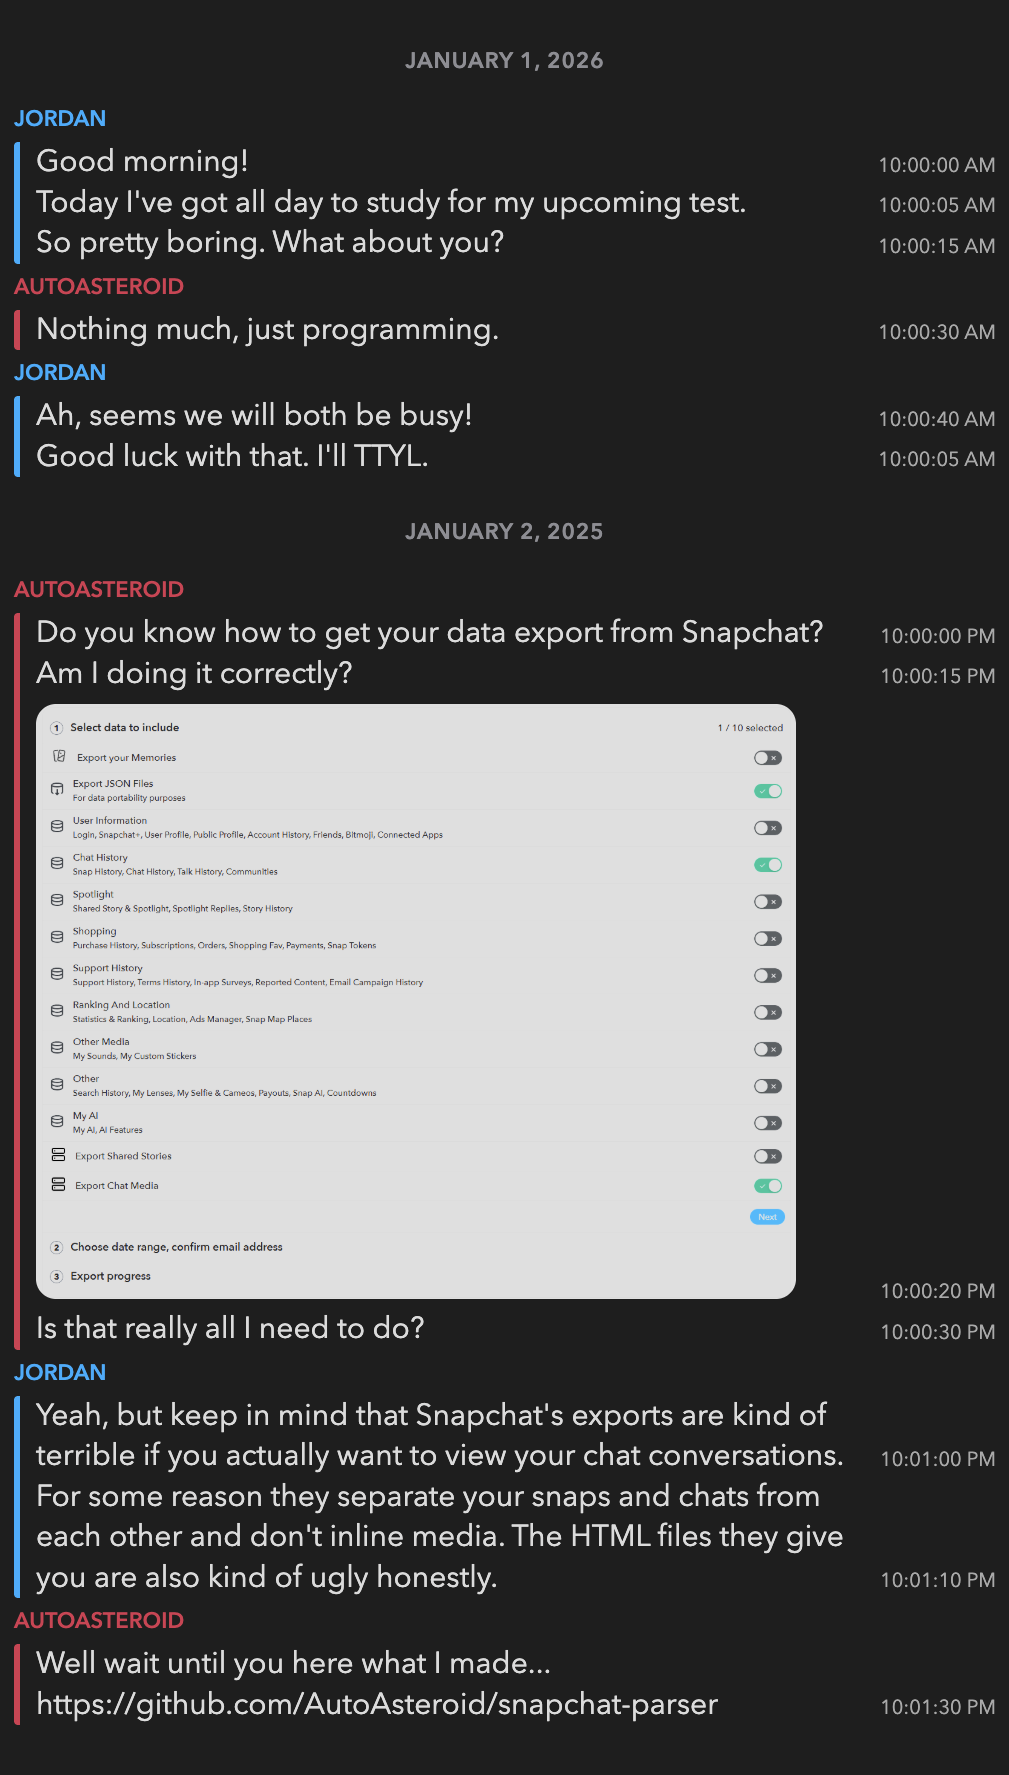
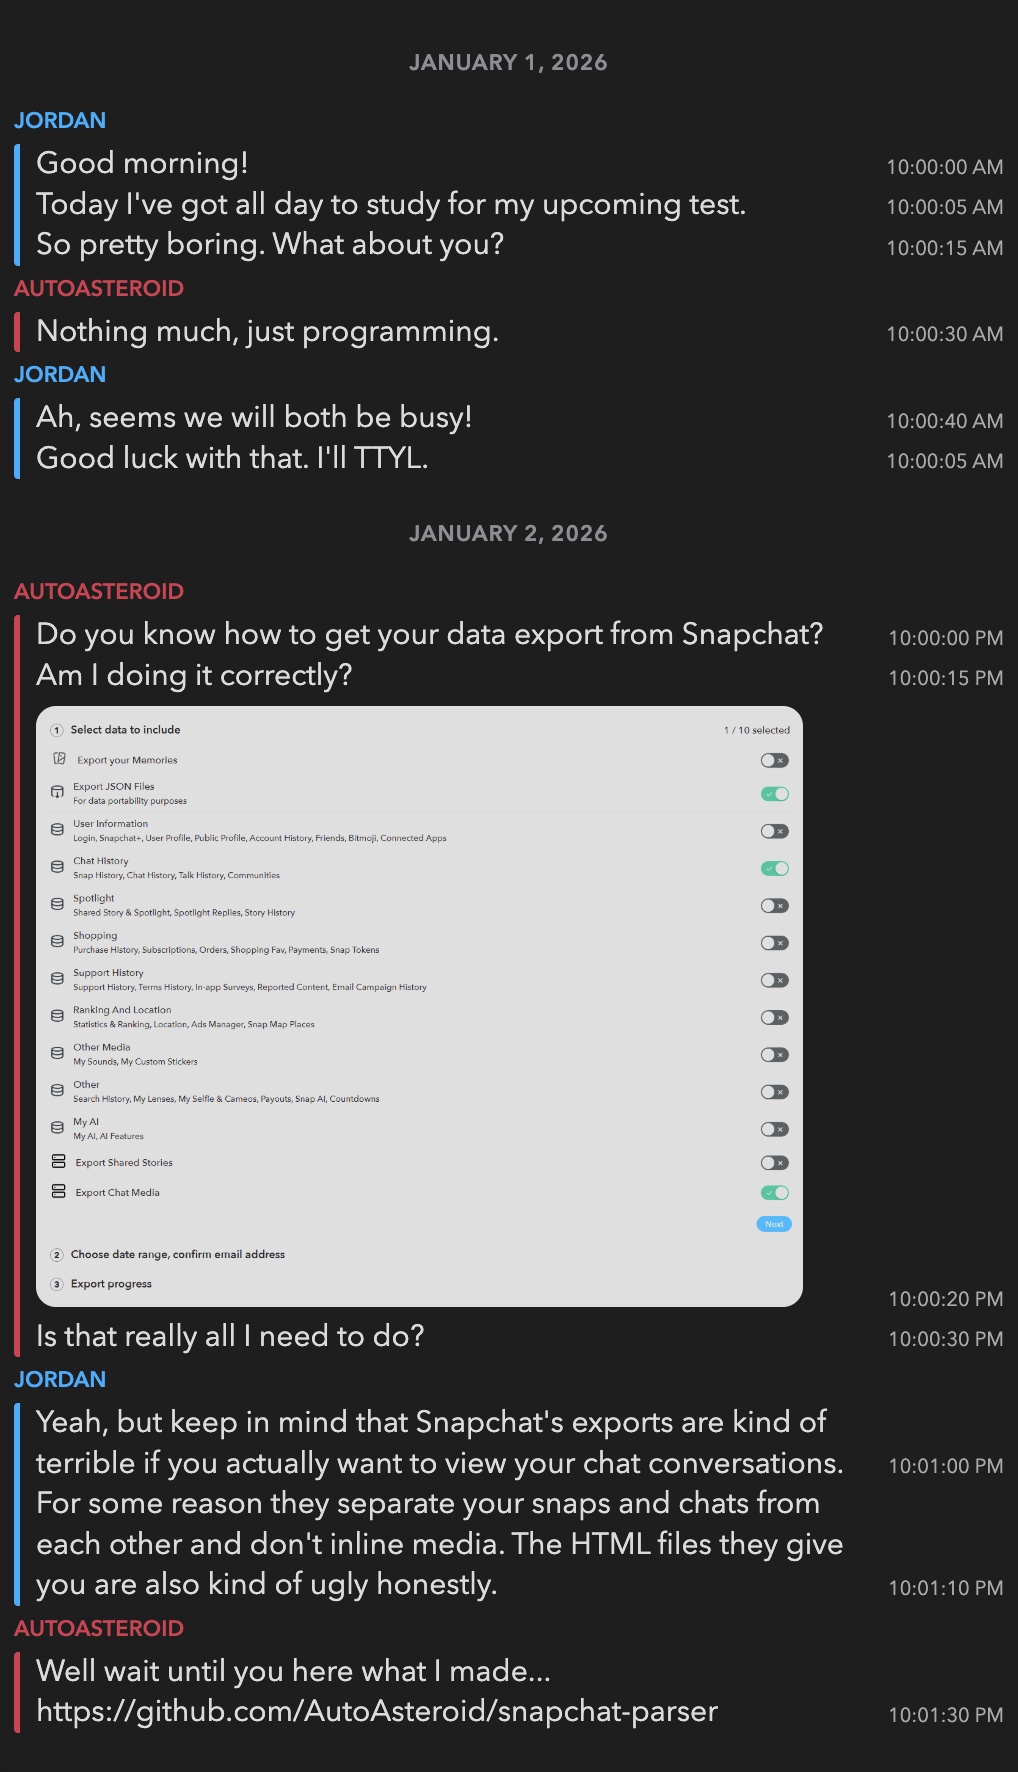
Fixed mock conversation date typo

diff --git a/.github/assets/example.html b/.github/assets/example.html
@@ -152,7 +152,7 @@
 <div class="message received"><div class="username">AutoAsteroid</div><div class="content"><div class="text">Nothing much, just programming.</div></div><div class="meta">10:00:30 AM</div></div>
 <div class="message sent"><div class="username">Jordan</div><div class="content"><div class="text">Ah, seems we will both be busy!</div></div><div class="meta">10:00:40 AM</div></div>
 <div class="message sent"><div class="content"><div class="text">Good luck with that. I'll TTYL.</div></div><div class="meta">10:00:05 AM</div></div>
-<div class="day">JANUARY 2, 2025</div>
+<div class="day">JANUARY 2, 2026</div>
 <div class="message received"><div class="username">AutoAsteroid</div><div class="content"><div class="text">Do you know how to get your data export from Snapchat?</div></div><div class="meta">10:00:00 PM</div></div>
 <div class="message received"><div class="content"><div class="text">Am I doing it correctly?</div></div><div class="meta">10:00:15 PM</div></div>
 <div class="message received"><div class="content"><div class="media-group"><img src="instructions.png" loading="lazy"></div></div><div class="meta">10:00:20 PM</div></div>
